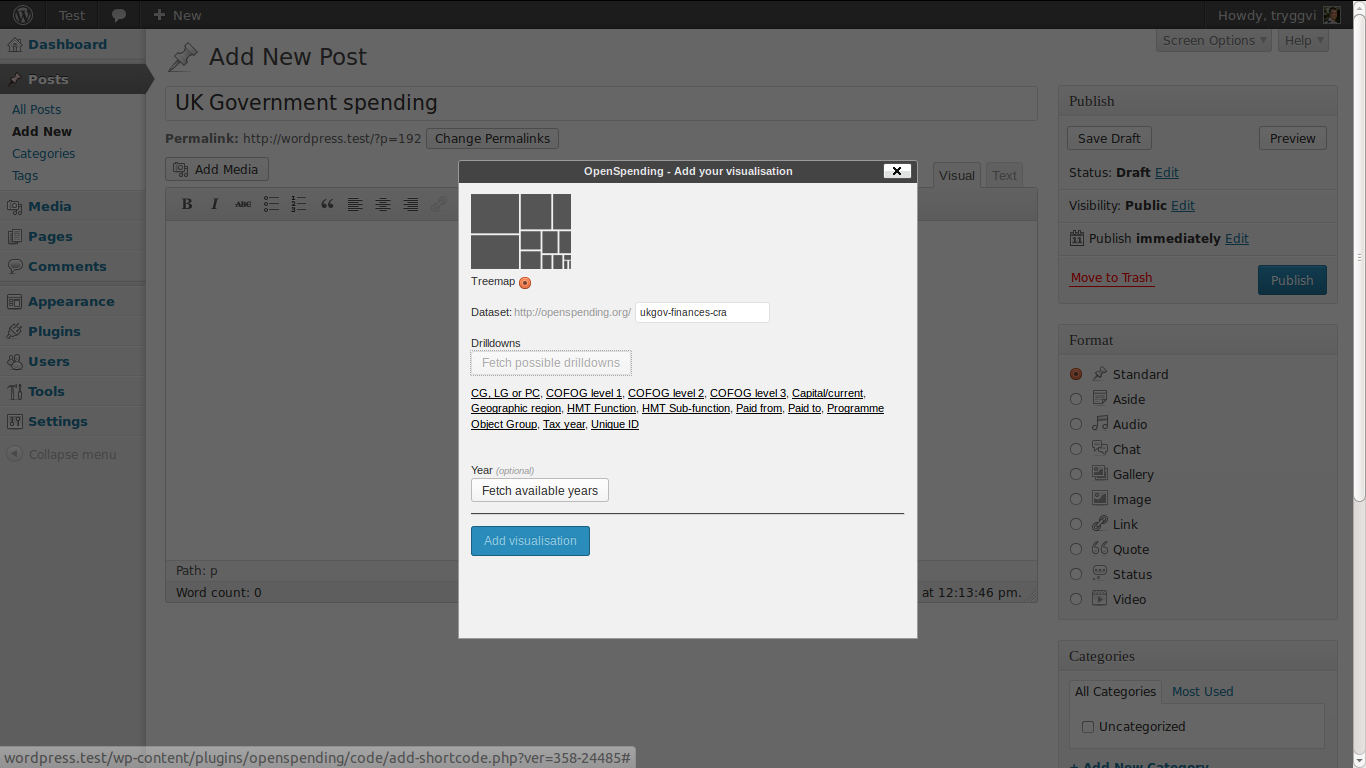
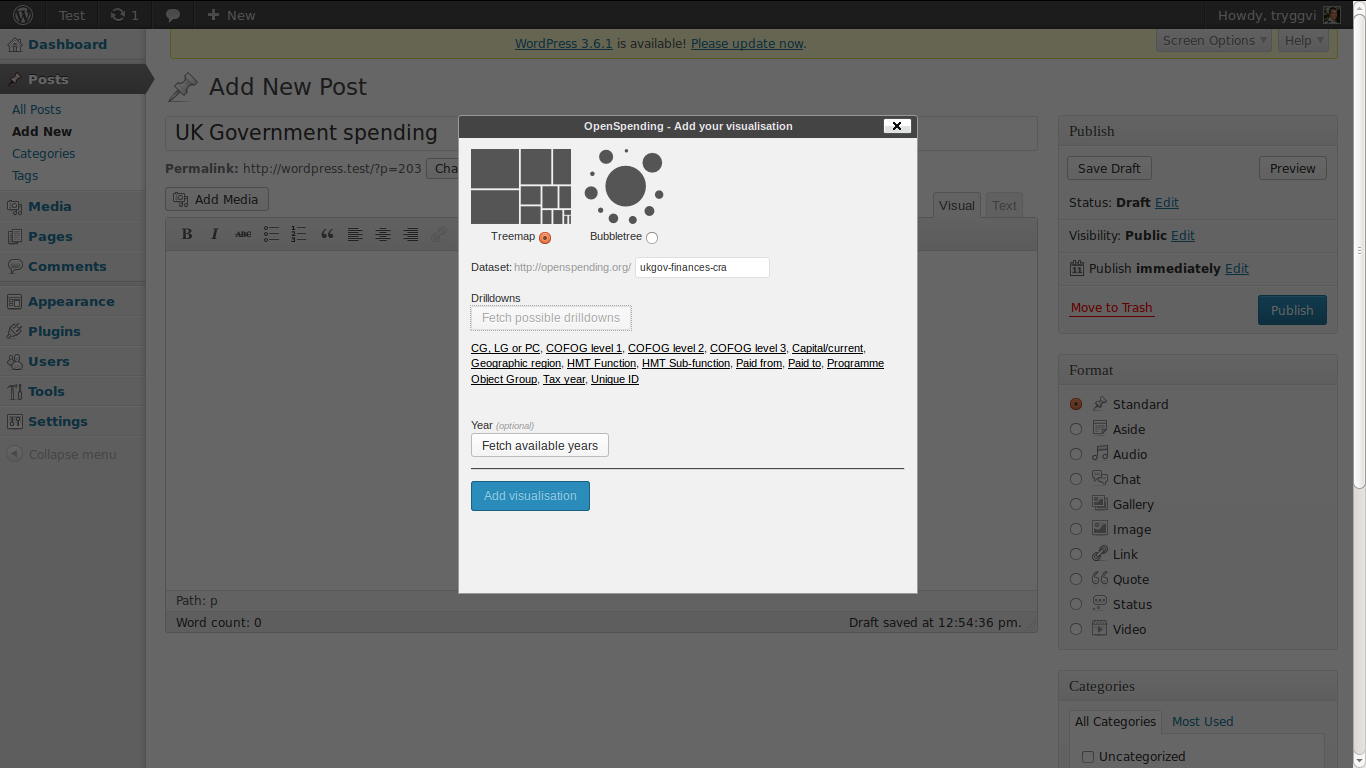
Updated documentation to showcase the bubbletree

diff --git a/docs/user-interface.md b/docs/user-interface.md
@@ -8,9 +8,11 @@ Click this button to add a visualisation. You will be prompted by a popup window
 
 ![OpenSpending configuration popup](openspending-popup-default.png)
 
-Choose your type of visualisation (at the moment only the treemap is supported) and type in the identifier for your dataset. The identifier you can get from the OpenSpending url.
+## Treemap (full walkthrough of interface)
 
-For example, if you're dataset lives at http://openspending.org/ukgov-finances-cra you would type in ukgov-finances-cra as the dataset.
+Choose your type of visualisation (treemap or bubbletree). Let's say you choose treemap. Now type in the identifier for your dataset. The identifier you can get from the OpenSpending url.
+
+For example, if your dataset lives at http://openspending.org/ukgov-finances-cra you would type in ukgov-finances-cra as the dataset.
 
 When you have filled in your dataset click on the button called *Fetch drilldowns*. This will get the available drilldown dimensions for you:
 
@@ -38,5 +40,32 @@ If you selected a year, there will be *year="2013"* in there somewhere. This is 
 
 Now you can publish your page or post and have a look. You'll see your visualisation added exactly where you want it to be:
 
-![Beautifully rendered OpenSpending visualisation](openspending-uk-treemap.png)
+![Beautifully rendered OpenSpending treemap](openspending-uk-treemap.png)
 
+## Bubbletree (short walkthrough)
+
+Alright, now if you want to create a bubbletree you do the same thing but choose bubbletree as a visualisation type:
+
+![Choosing bubbletree](openspending-bubbletree-chosen.png)
+
+Then fill in the dataset identifier as you do with the treemap and fetch the drilldowns. Here things get a bit more difficult.
+
+If you want a beautiful bubbletree with icons and colors (instead of grey bubbles with no icons) you need to use Cofog and this **must** be present in the dataset and it **must** be a compound dimension (each level).
+
+So when the dataset is created and modelled the there must be a compound dimension representing Cofog level 1. As a compound dimension it must map its *id* to the Cofog code, e.g. '09' for education, and the *label* must be the name of the category (e.g. 'The Environment' for id: 09).
+
+So both the id and the label **must** be fields in the original data source. We also recommend that you de-jargonize the cofog standard. Use words normal people understand, e.g. 'Helping Others' instead of 'Social protection'.
+
+You have to do the same for the other two levels of Cofog and the *id* must be the full Cofog code, e.g. '10.2' for the level 2 category 'Old age'.
+
+If your dataset has already done this for all three Cofog levels (might be less but that's not as granular) you then fetch the drilldowns and choose the cofog levels in order:
+
+![Cofog levels chosen](openspending-cofogs-chosen.png)
+
+Then you like described in the treemap tutorial you choose the year you want to look at and then add the visualisation. Just like with the treemap this will create a shortcode with all the essential information:
+
+![Bubbletree shortcode](openspending-bubbletree-shortcode.png)
+
+Now you can publish your page or post and have a look. A word of advice. The bubbletree changes the url for the rendering of levels and this can have unintended consequences. For example if there are two or more bubbletrees in a blog post or on a page they won't work (not in the list of blogs either). So take care when you use bubbletrees.
+
+![Beautifully rendered OpenSpending bubbletree](openspending-bosnia-bubbletree.png)
